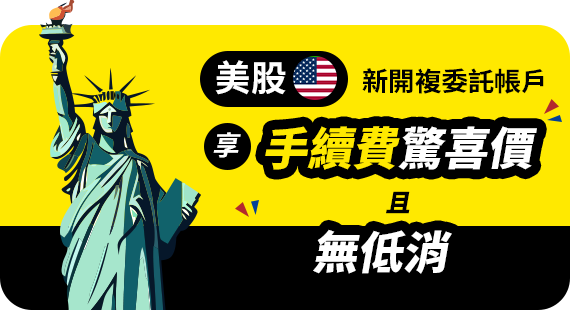
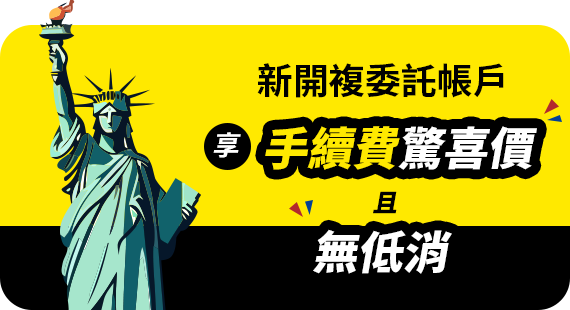
Add files via upload

diff --git a/trade-US-now_2609-main/index.html b/trade-US-now_2609-main/index.html
@@ -73,7 +73,7 @@
 
     <link rel="stylesheet" type="text/css" href="https://event.kgi.com.tw/news/event/commonResources/css/slick.css" />
     <link href="https://event.kgi.com.tw/news/event/commonResources/css/aos.css" rel="stylesheet">
-    <link rel="stylesheet" href="css/style.css?v=20260930_23" />
+    <link rel="stylesheet" href="css/style.css?v=20260930_2" />
 
     <script src="https://event.kgi.com.tw/news/event/commonResources/js/vue-v3.js"></script>
     <script src="https://event.kgi.com.tw/news/event/commonResources/js/jquery-v3.4.min.js"></script>
@@ -254,15 +254,14 @@
                     <!-- 桌機版 -->
                     <div class="adBanner2 adBanner2-grid" v-if="windowWidth > 767">
                         <div class="adBanner2-img">
-                            <a href="https://chatservice.kgi.com.tw/Webhook/?q=我想了解台美股優惠" target="_blank"
-                                title="了解台美股優惠">
-                                <img src="images/adBanner_1.png?v=260721" alt="美股驚喜價">
+                            <a href="https://chatservice.kgi.com.tw/Webhook/?q=我想了解美股優惠" target="_blank" title="了解美股優惠">
+                                <img src="images/adBanner_1.png?v=260930" alt="美股驚喜價">
                             </a>
                         </div>
                         <div class="adBanner2-img">
-                            <a href="https://chatservice.kgi.com.tw/Webhook/?q=我想了解台美股優惠" target="_blank"
+                            <a href="https://chatservice.kgi.com.tw/Webhook/?q=我想了解美股優惠" target="_blank"
                                 title="了解台美股優惠">
-                                <img src="images/adBanner_5.png?v=260721" alt="台股回饋價">
+                                <img src="images/adBanner_5.png?v=260930" alt="定期定額均一價">
                             </a>
                         </div>
                         <!--div class="adBanner2-img">
@@ -287,17 +286,17 @@
                         @lazyLoaded="handleLazyLoaded" @lazyLoadError="handleLazeLoadError">
                         <div>
                             <div class="adBanner2-img">
-                                <a href="https://chatservice.kgi.com.tw/Webhook/?q=我想了解台美股優惠" target="_blank"
-                                    title="了解台美股優惠">
-                                    <img src="images/adBanner_1.png?v=260721" alt="美股驚喜價">
+                                <a href="https://chatservice.kgi.com.tw/Webhook/?q=我想了解美股優惠" target="_blank"
+                                    title="了解美股優惠">
+                                    <img src="images/adBanner_1.png?v=260930" alt="美股驚喜價">
                                 </a>
                             </div>
                         </div>
                         <div>
                             <div class="adBanner2-img">
-                                <a href="https://chatservice.kgi.com.tw/Webhook/?q=我想了解台美股優惠" target="_blank"
-                                    title="了解台美股優惠">
-                                    <img src="images/adBanner_5.png?v=260721" alt="台股回饋價">
+                                <a href="https://chatservice.kgi.com.tw/Webhook/?q=我想了解美股優惠" target="_blank"
+                                    title="了解美股優惠">
+                                    <img src="images/adBanner_5.png?v=260930" alt="定期定額均一價">
                                 </a>
                             </div>
                         </div>
@@ -339,10 +338,10 @@
                     </div>
                     <div class="btnArea twoBtn margin-top-40 margin-top-sm-10">
                         <div class="btn blue">
-                            <a href="https://chatservice.kgi.com.tw/Webhook/?q=我想了解台美股優惠" target="_blank"
-                                title="了解台美股優惠" id="ServiceBtn_S">
-                                <!-- <a href="javascript:void(0)" title="了解台美股優惠" @click="scrollToElement('eventInfo'); eventInfo = true;"> -->
-                                <b>了解台美股優惠</b><span class="material-symbols-outlined">keyboard_arrow_right</span>
+                            <a href="https://chatservice.kgi.com.tw/Webhook/?q=我想了解美股優惠" target="_blank" title="了解美股優惠"
+                                id="ServiceBtn_S">
+                                <!-- <a href="javascript:void(0)" title="了解美股優惠" @click="scrollToElement('eventInfo'); eventInfo = true;"> -->
+                                <b>了解美股優惠</b><span class="material-symbols-outlined">keyboard_arrow_right</span>
                             </a>
                         </div>
                         <div class="btn blue">
@@ -823,14 +822,22 @@
                     </p>
 
                     <ul class="tab type2 function-showcase-tabs" role="tablist" data-aos="fade-up">
-                        <li :class="{'active': functionTabIndex === 0}" :aria-selected="functionTabIndex === 0" role="tab"
-                            @click="functionTabIndex = 0; $event.target.scrollIntoView({behavior: 'smooth', block: 'nearest', inline: 'center'})">價格即時到位</li>
-                        <li :class="{'active': functionTabIndex === 1}" :aria-selected="functionTabIndex === 1" role="tab"
-                            @click="functionTabIndex = 1; $event.target.scrollIntoView({behavior: 'smooth', block: 'nearest', inline: 'center'})">市場資訊整合</li>
-                        <li :class="{'active': functionTabIndex === 2}" :aria-selected="functionTabIndex === 2" role="tab"
-                            @click="functionTabIndex = 2; $event.target.scrollIntoView({behavior: 'smooth', block: 'nearest', inline: 'center'})">企業體質</li>
-                        <li :class="{'active': functionTabIndex === 3}" :aria-selected="functionTabIndex === 3" role="tab"
-                            @click="functionTabIndex = 3; $event.target.scrollIntoView({behavior: 'smooth', block: 'nearest', inline: 'center'})">策略選股</li>
+                        <li :class="{'active': functionTabIndex === 0}" :aria-selected="functionTabIndex === 0"
+                            role="tab"
+                            @click="functionTabIndex = 0; $event.target.scrollIntoView({behavior: 'smooth', block: 'nearest', inline: 'center'})">
+                            價格即時到位</li>
+                        <li :class="{'active': functionTabIndex === 1}" :aria-selected="functionTabIndex === 1"
+                            role="tab"
+                            @click="functionTabIndex = 1; $event.target.scrollIntoView({behavior: 'smooth', block: 'nearest', inline: 'center'})">
+                            市場資訊整合</li>
+                        <li :class="{'active': functionTabIndex === 2}" :aria-selected="functionTabIndex === 2"
+                            role="tab"
+                            @click="functionTabIndex = 2; $event.target.scrollIntoView({behavior: 'smooth', block: 'nearest', inline: 'center'})">
+                            企業體質</li>
+                        <li :class="{'active': functionTabIndex === 3}" :aria-selected="functionTabIndex === 3"
+                            role="tab"
+                            @click="functionTabIndex = 3; $event.target.scrollIntoView({behavior: 'smooth', block: 'nearest', inline: 'center'})">
+                            策略選股</li>
                     </ul>
 
                     <transition name="function-panel" mode="out-in">

diff --git a/trade-US-now_2609-main/css/style.css b/trade-US-now_2609-main/css/style.css
@@ -9898,7 +9898,7 @@ code {
 }
 
 .banner-sTit .SEO {
-    margin: 0;
+    margin: 16px 0 0;
     padding: 0;
     line-height: 0.5
 }
@@ -9917,6 +9917,7 @@ code {
 /* the comma span must not inherit the decorative span padding */
 .banner-sTit .SEO .SEO-comma {
     padding: 0;
+    color: inherit !important;
 }
 
 /* ---- KV responsive scale (subtitle + CTA) ----
@@ -9969,6 +9970,10 @@ code {
 
 /* mobile: subtitle on two lines, compact centered CTA */
 @media screen and (max-width:767px) {
+    .banner-sTit .SEO {
+        margin-top: 10px;
+    }
+
     .banner-sTit .SEO span {
         font-size: 7vw;
         padding: 2px 4px;
